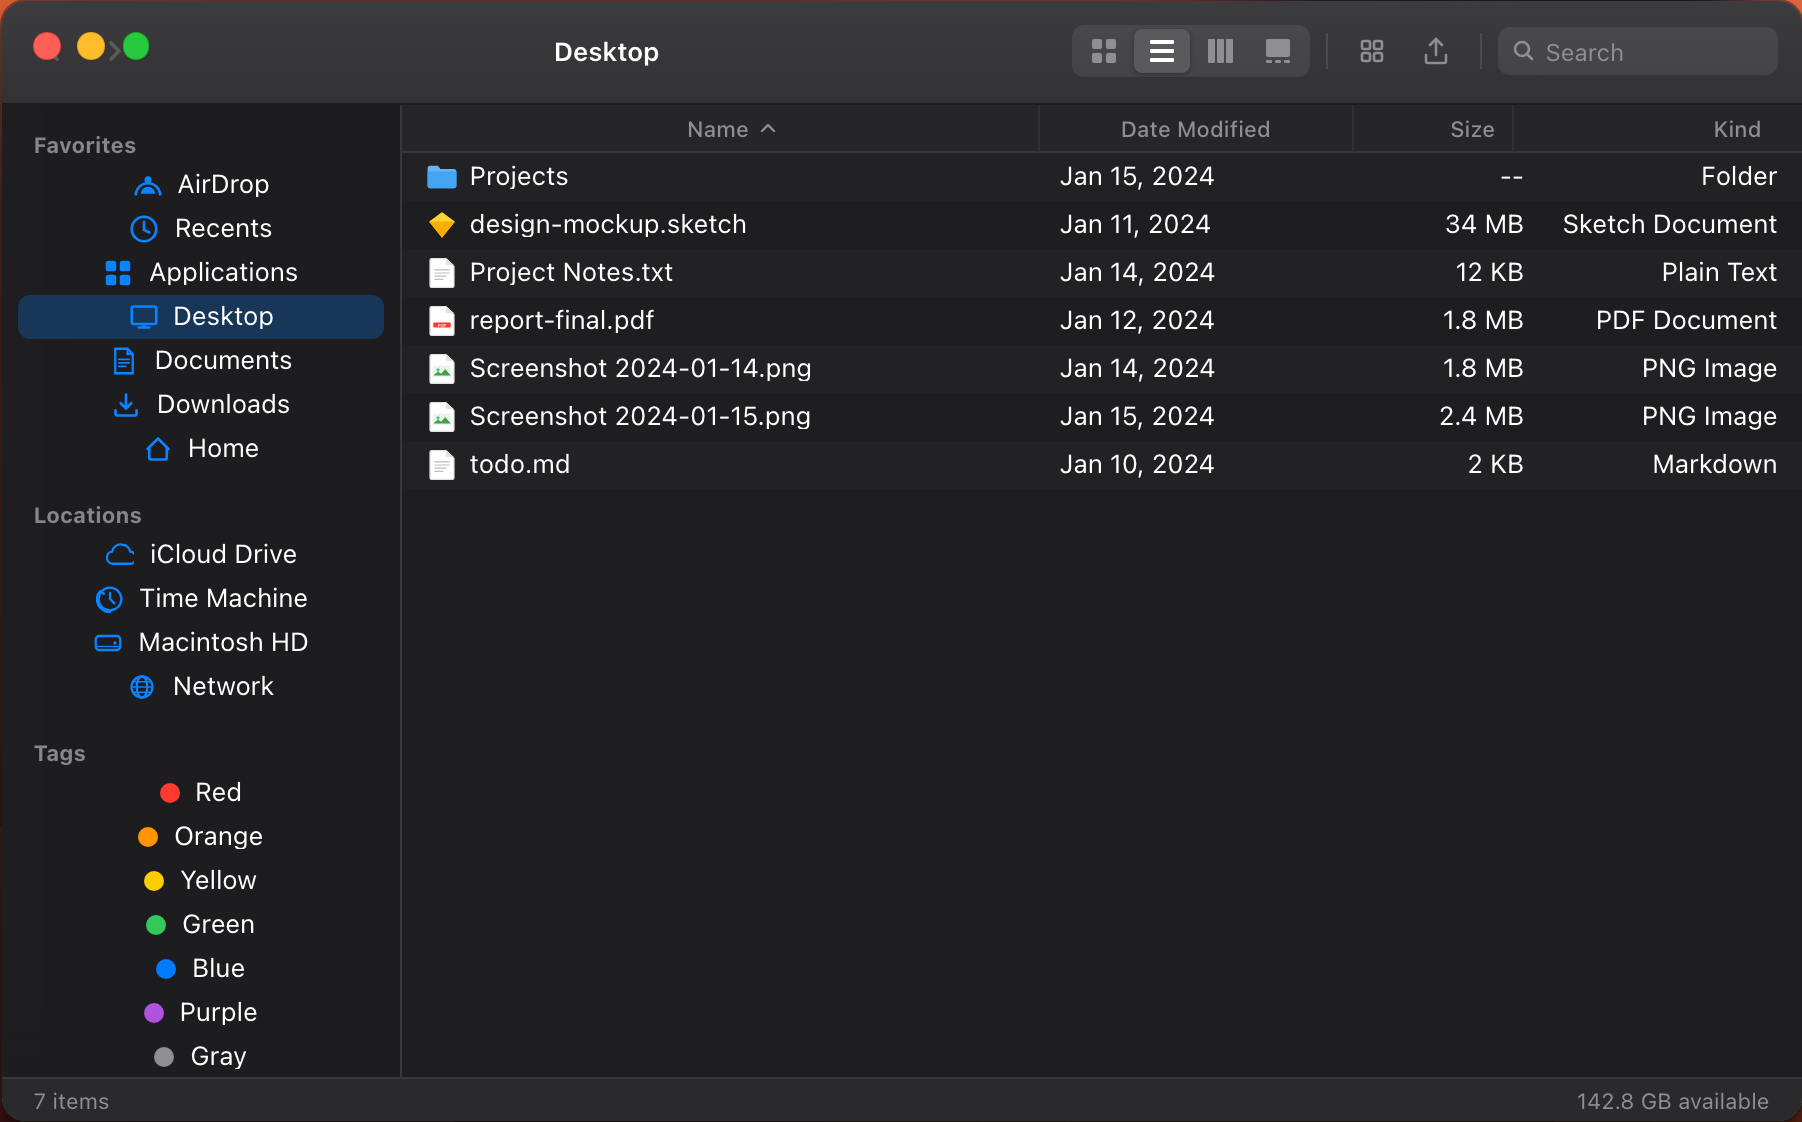
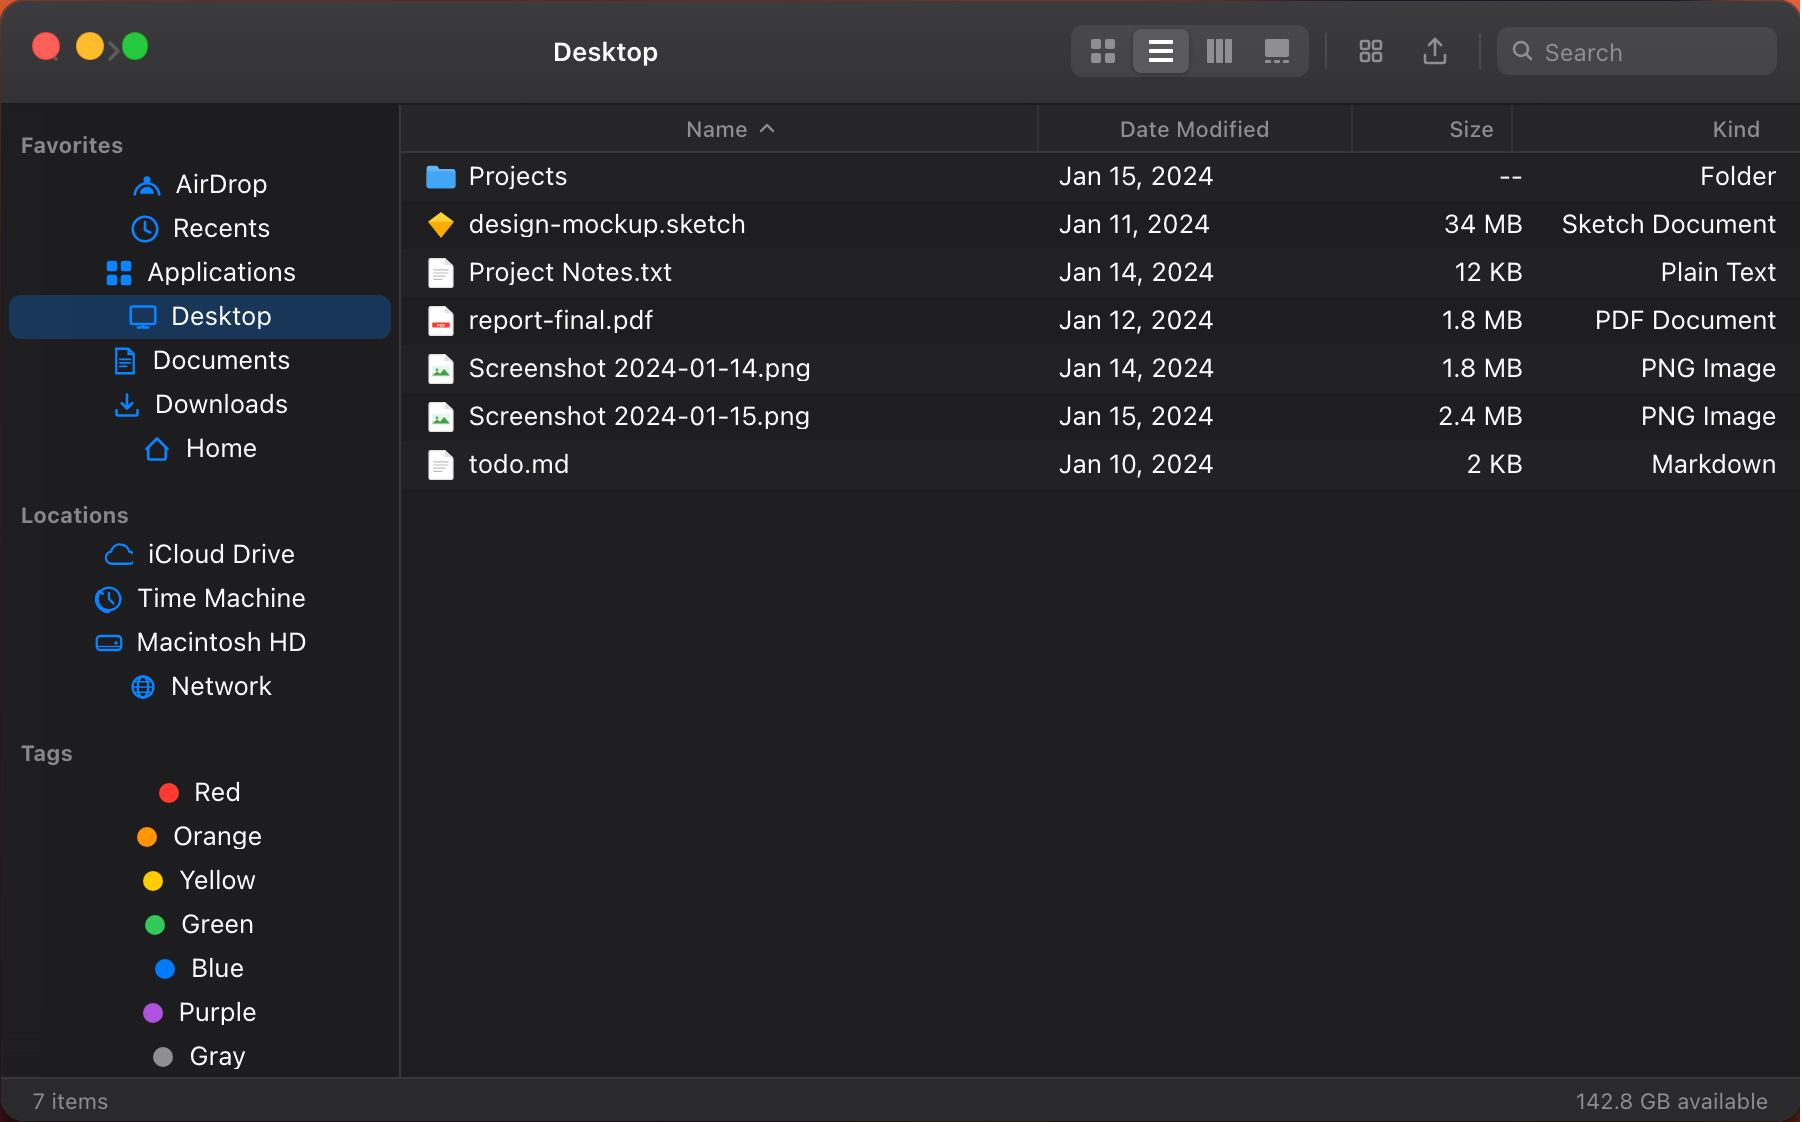
fix(apps): left-align Finder and Safari sidebar items
Reduce sidebar item margins and padding to match real macOS:
- Finder: margin 8px→4px, padding 8px→6px, section title 16px→10px
- Safari: folder name padding 14px→10px, bookmark left padding 28px→22px

diff --git a/src/components/apps/Finder/Finder.svelte b/src/components/apps/Finder/Finder.svelte
@@ -1500,16 +1500,17 @@
 		font-size: 11px;
 		font-weight: 700;
 		color: #86868b;
-		padding: 8px 16px 4px;
+		padding: 8px 10px 4px;
+		text-align: left;
 	}
 
 	.sidebar-item {
 		display: flex;
 		align-items: center;
-		gap: 7px;
-		width: calc(100% - 16px);
-		margin: 0 8px;
-		padding: 3px 8px;
+		gap: 6px;
+		width: calc(100% - 8px);
+		margin: 0 4px;
+		padding: 3px 6px;
 		height: 22px;
 		border: none;
 		background: none;

diff --git a/src/components/apps/Safari/Safari.svelte b/src/components/apps/Safari/Safari.svelte
@@ -1411,7 +1411,7 @@
 		display: flex;
 		align-items: center;
 		gap: 6px;
-		padding: 6px 14px;
+		padding: 6px 10px;
 		font-size: 11px;
 		font-weight: 600;
 		color: #86868b;
@@ -1422,7 +1422,7 @@
 		align-items: center;
 		gap: 8px;
 		width: 100%;
-		padding: 4px 14px 4px 28px;
+		padding: 4px 10px 4px 22px;
 		border: none;
 		background: none;
 		font-size: 12px;
